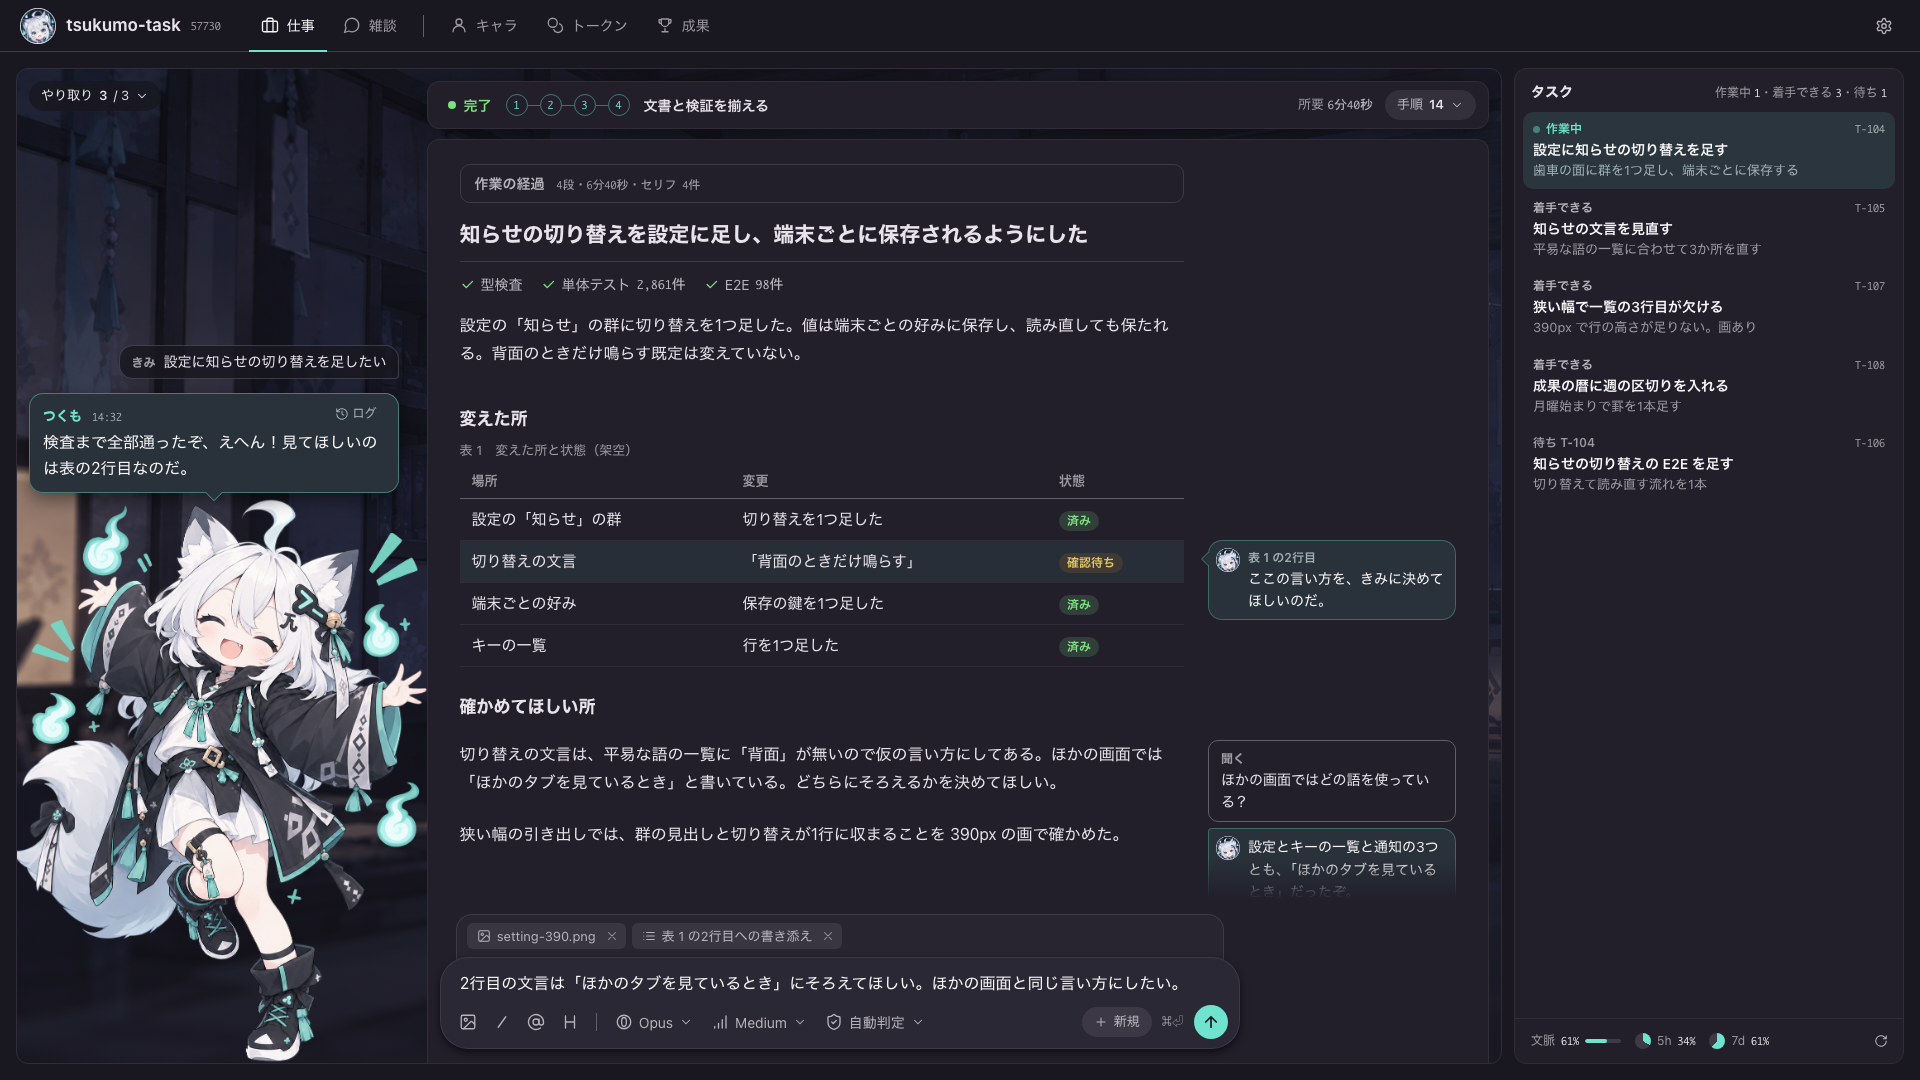
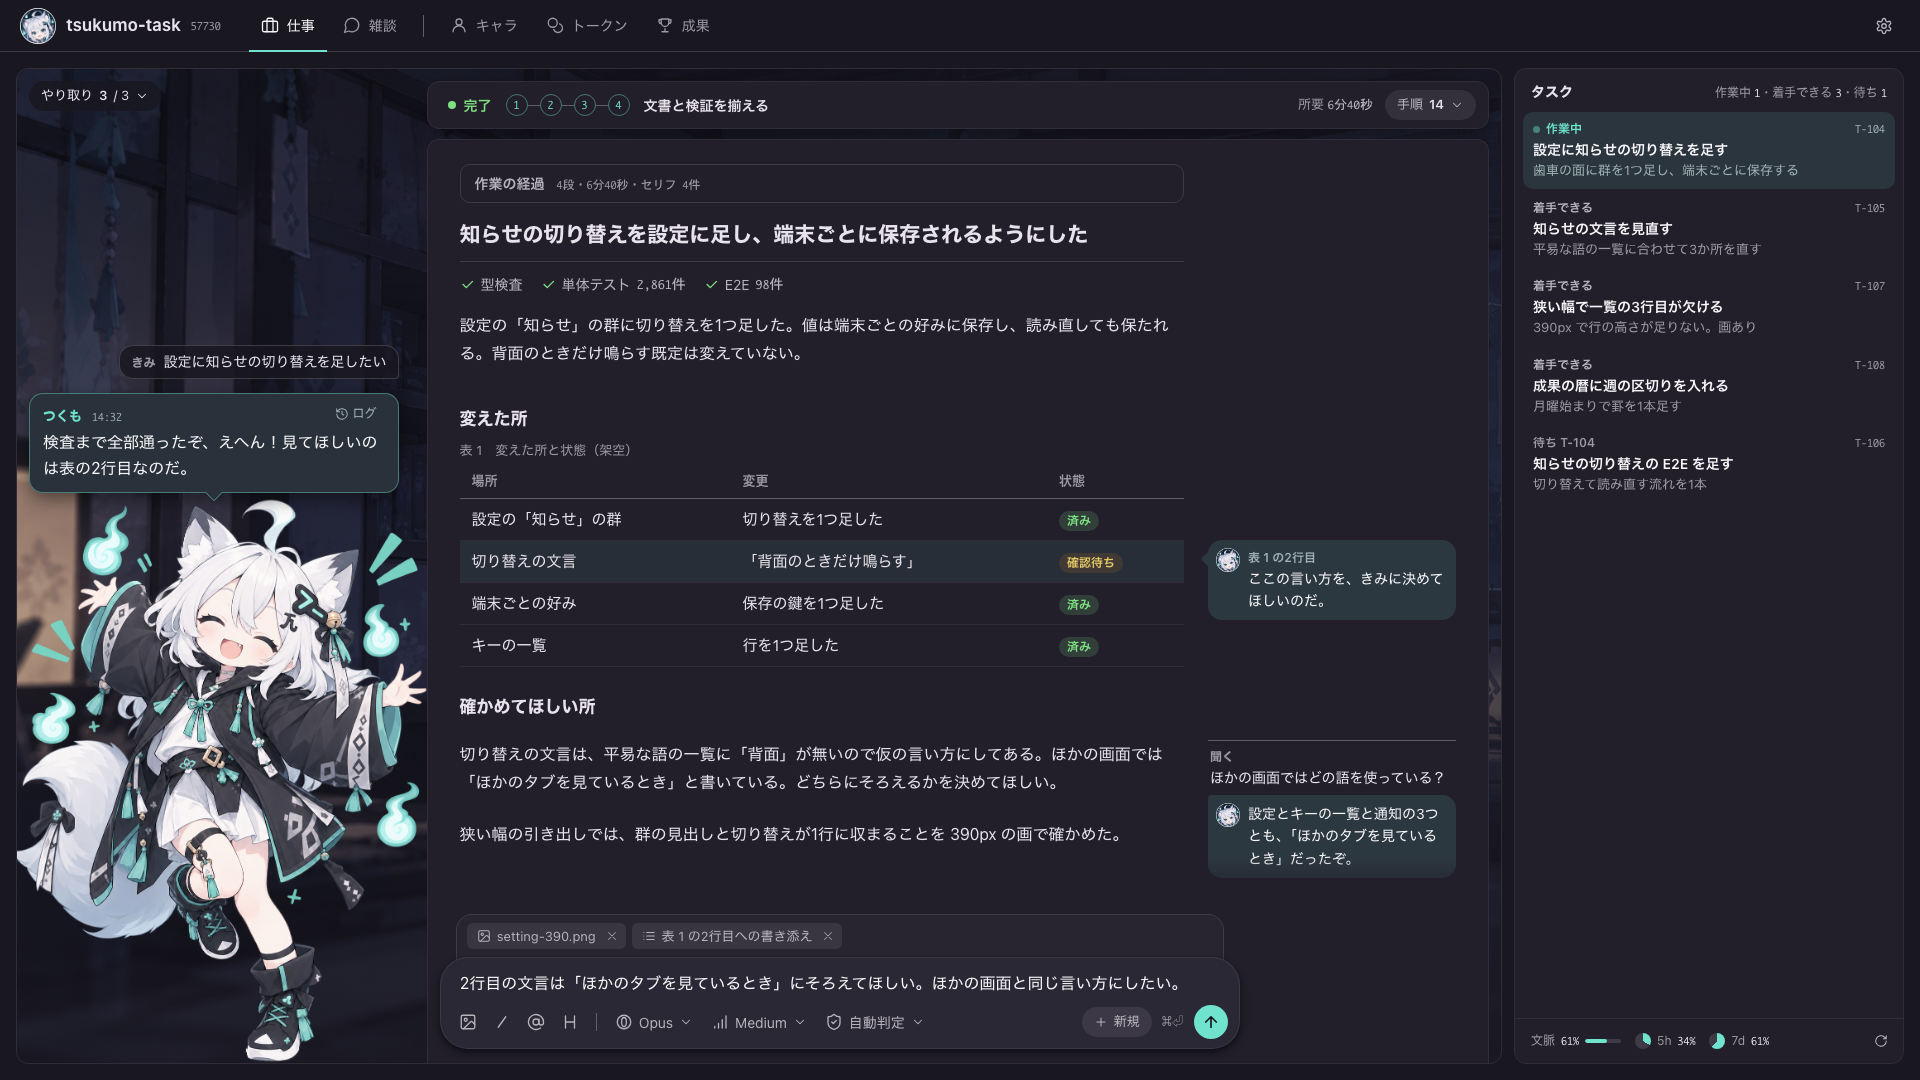
見本の「紙の中の声」の吹き出しを、枠を持たない淡い面に替えた。紙の中に箱が重なって見えるのを避け、立ち絵の横の吹き出しとの強弱を付ける

Changed region(s): [[0.625, 0.7028, 0.7812, 0.825]]

diff --git a/docs/history/mockup/conversation-directions-2026-11-15/fused.css b/docs/history/mockup/conversation-directions-2026-11-15/fused.css
@@ -285,8 +285,7 @@ body[data-voice="paper"]:not([data-scene="greet"]) .lane .window {
   margin-block: 10px 4px;
   padding: 8px 12px 8px 8px;
   border-radius: 4px 14px 14px;
-  background: color-mix(in srgb, var(--surface), var(--accent) 9%);
-  box-shadow: inset 0 0 0 1px color-mix(in srgb, var(--accent) 30%, transparent);
+  background: color-mix(in srgb, var(--surface), var(--accent) 13%);
   font-size: 14px;
   line-height: 1.6;
   color: var(--ink-bright);
@@ -306,7 +305,7 @@ body[data-voice="paper"]:not([data-scene="greet"]) .lane .window {
   border-radius: 999px;
   background: var(--surface-raised);
   font-size: 12px;
-  color: var(--ink-quiet-accent);
+  color: var(--ink);
 }
 
 .voice-at {
@@ -360,9 +359,8 @@ body[data-voice="paper"] .pointed td {
 }
 
 .thread-you {
-  padding: 8px 12px;
-  border: 1px solid var(--rule);
-  border-radius: var(--radius-element);
+  padding: 6px 2px 0;
+  border-block-start: 1px solid var(--rule);
 }
 
 .thread-you b {
@@ -415,7 +413,6 @@ body[data-voice="paper"] .pointed td {
     block-size: 10px;
     rotate: 45deg;
     background: inherit;
-    box-shadow: inset 1px -1px 0 color-mix(in srgb, var(--accent) 30%, transparent);
   }
 
   .report > .thread .voice {

diff --git a/docs/history/mockup/conversation-directions-2026-11-15/fused.html b/docs/history/mockup/conversation-directions-2026-11-15/fused.html
@@ -47,8 +47,8 @@
       <span class="mock-bar-title">融合案「舞台の上の紙」の見本（中身は架空）</span>
       <a class="mock-bar-link" href="index.html">3案の見本へ</a>
       <span class="mock-bar-group" data-param="voice">
-        <a data-value="lane" href="?voice=lane">過ぎたセリフは列に</a>
-        <a data-value="paper" href="?voice=paper">過ぎたセリフは紙の中に</a>
+        <a data-value="lane" href="?voice=lane">声は列に</a>
+        <a data-value="paper" href="?voice=paper">声は紙の中に</a>
       </span>
       <span class="mock-bar-group" data-param="scene">
         <a data-value="greet" href="?scene=greet">迎える</a>

diff --git a/docs/history/mockup/conversation-directions-2026-11-15/style.css b/docs/history/mockup/conversation-directions-2026-11-15/style.css
@@ -219,14 +219,11 @@ body[data-v="stage"] [data-hide-v~="stage"] {
 
 .mock-bar-group {
   display: inline-flex;
-  gap: 2px;
-  padding: 2px;
-  border-radius: 999px;
-  background: var(--surface);
+  gap: 4px;
 }
 
 .mock-bar-group a {
-  padding: 2px 12px;
+  padding: 3px 12px;
   border-radius: 999px;
   color: var(--ink-soft);
   text-decoration: none;
